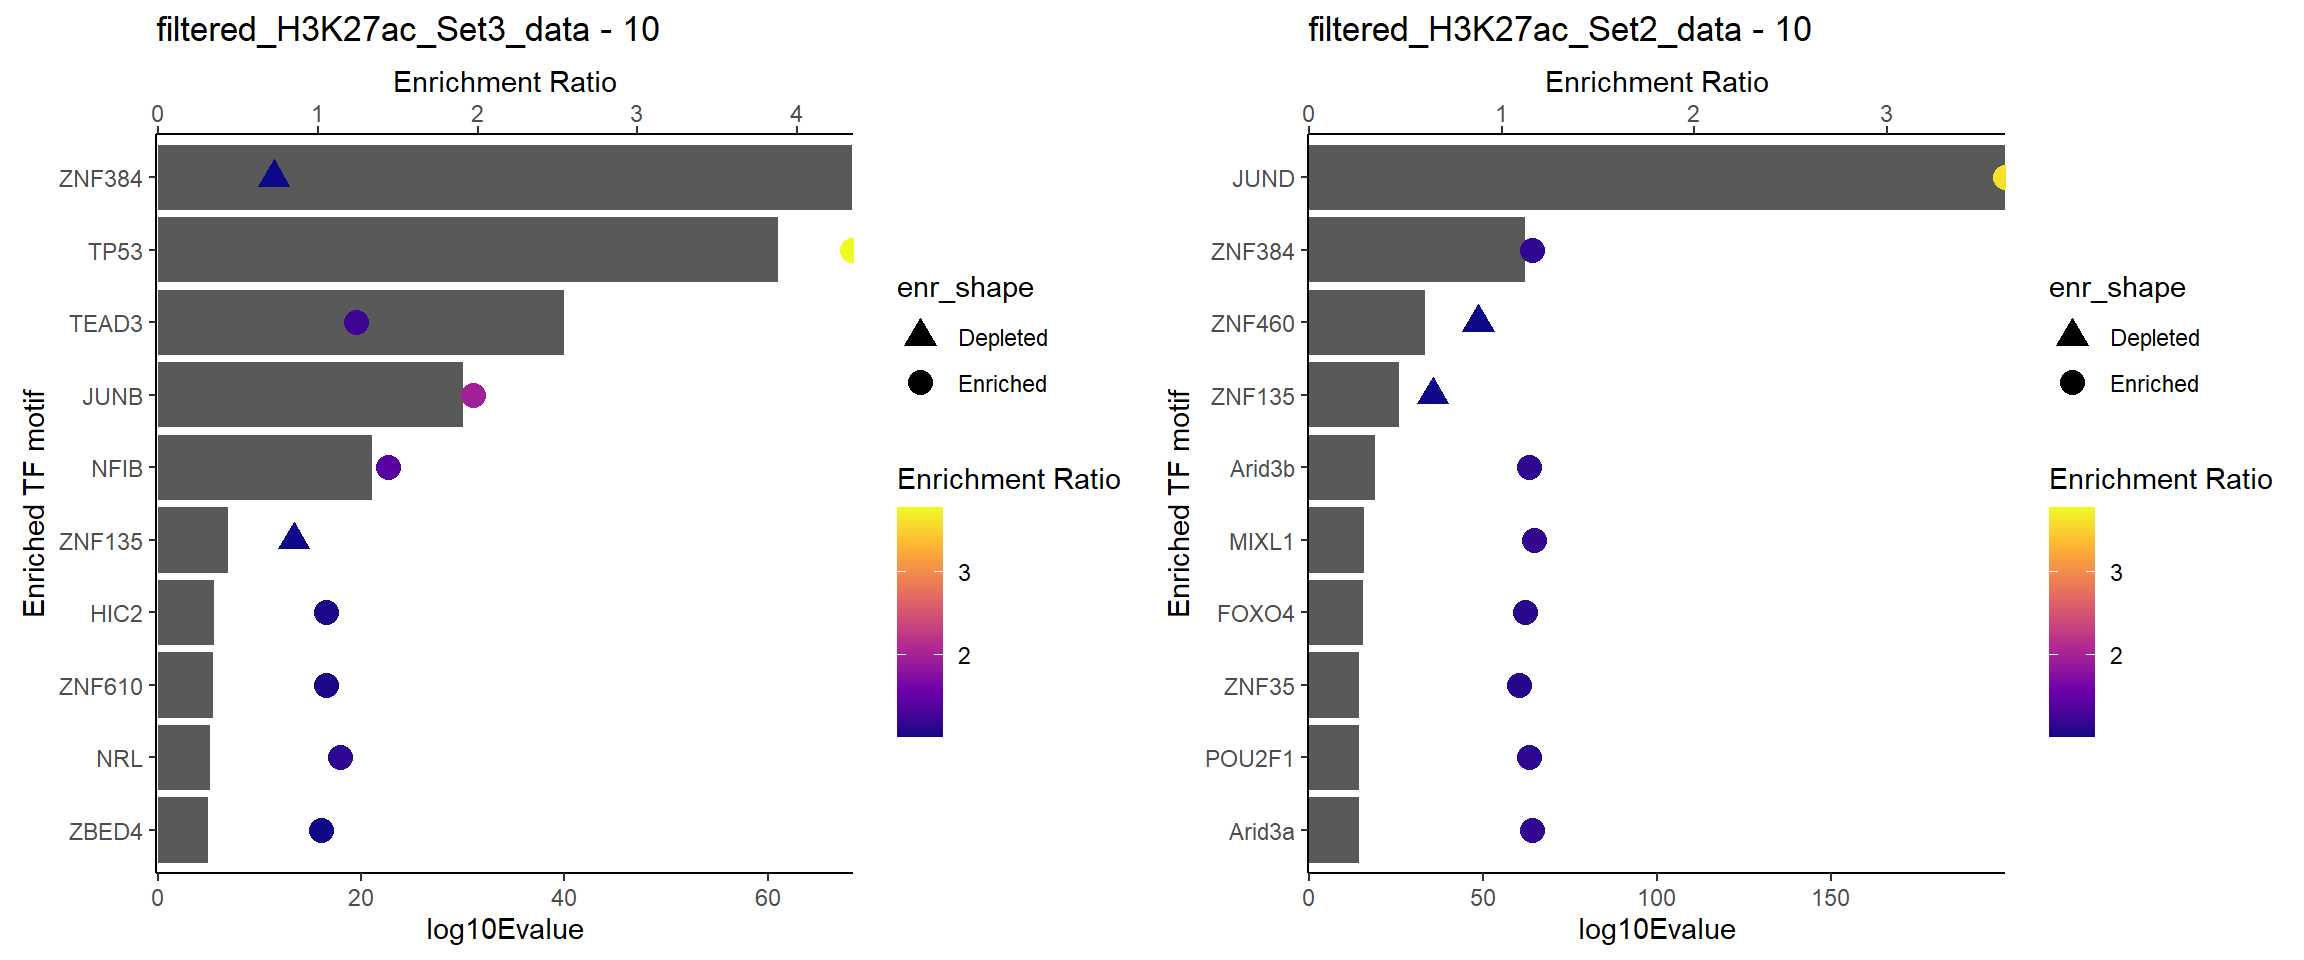
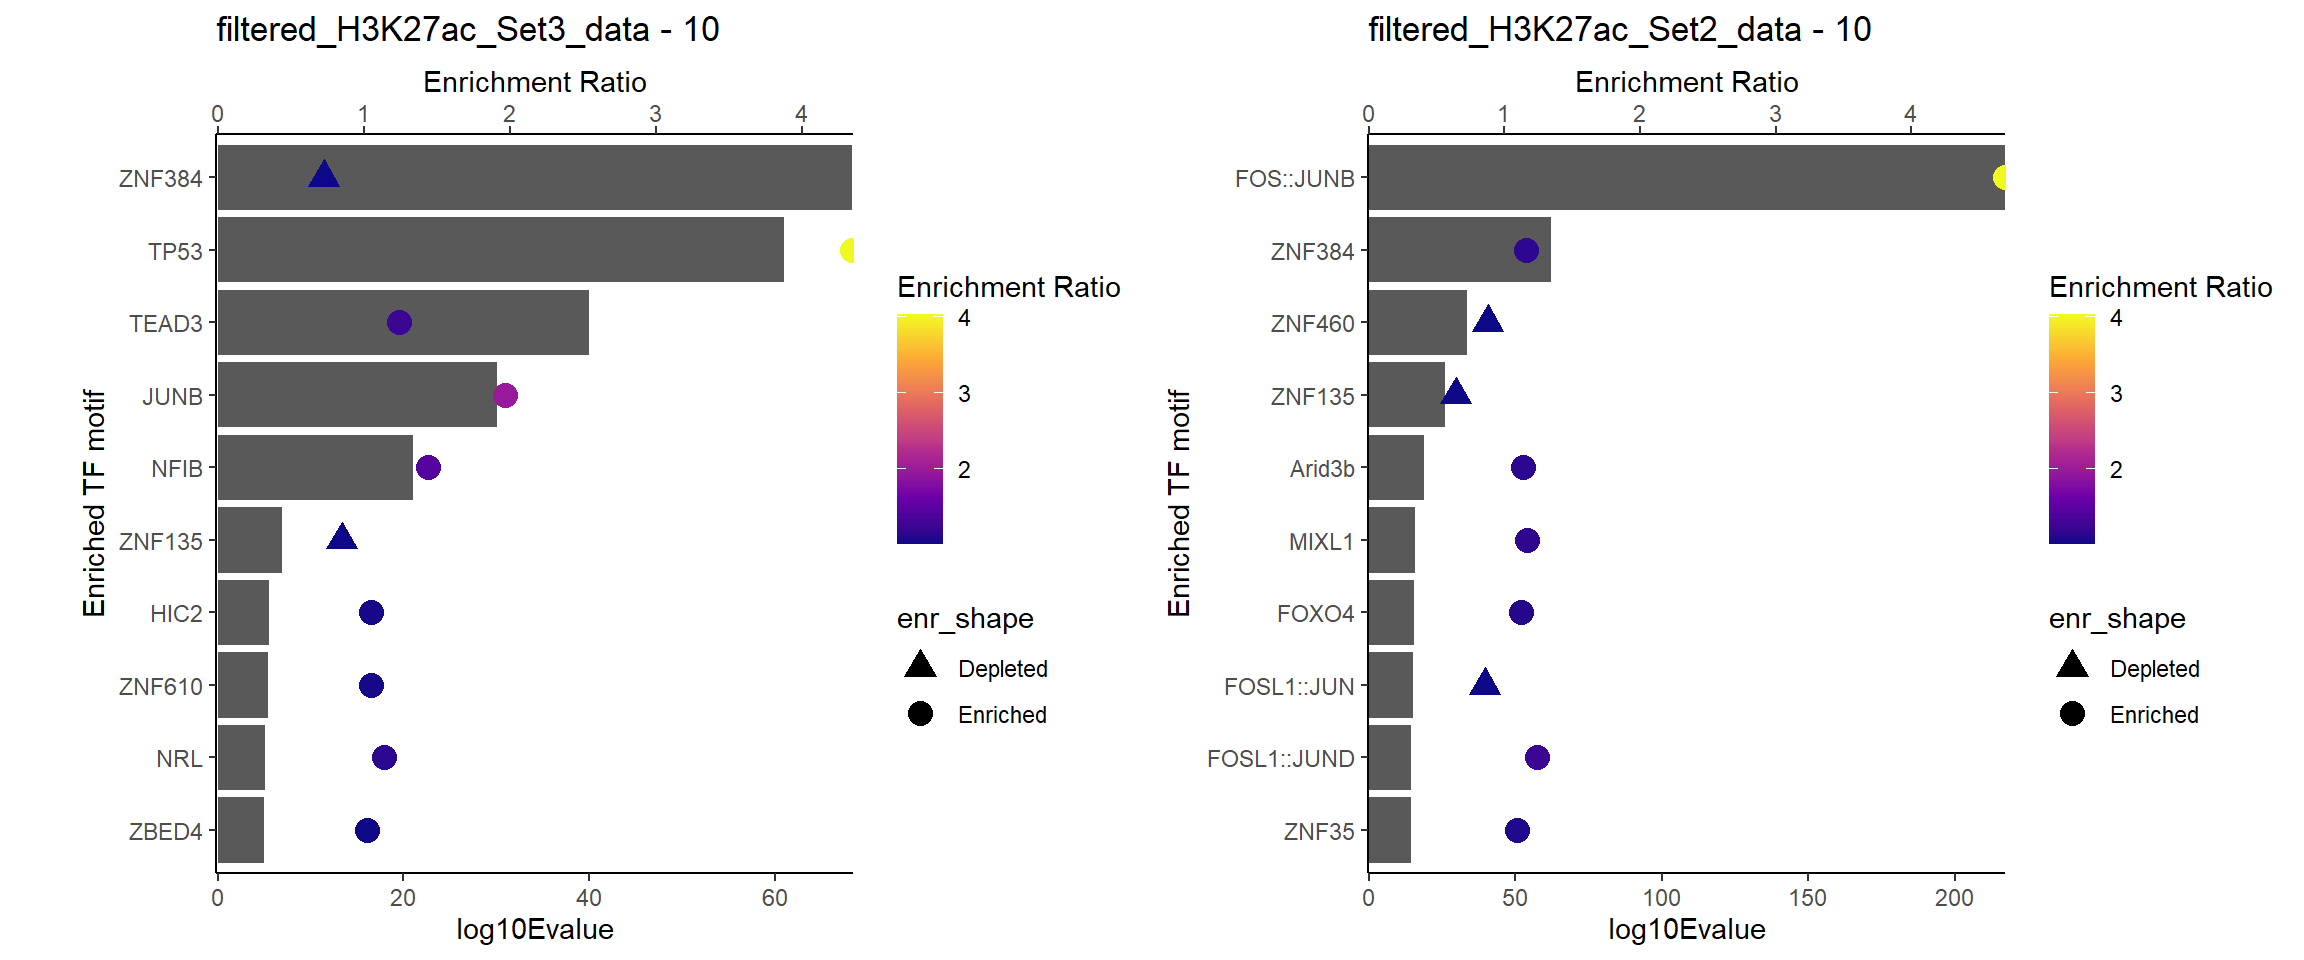
Build site.

diff --git a/docs/H3K27ac_TF_motifs.html b/docs/H3K27ac_TF_motifs.html
@@ -11,7 +11,7 @@
 
 <meta name="author" content="Renee Matthews" />
 
-<meta name="date" content="2026-02-18" />
+<meta name="date" content="2026-02-23" />
 
 <title>H3K27ac TF enrichment</title>
 
@@ -374,7 +374,7 @@ div.tocify {
 
 <h1 class="title toc-ignore">H3K27ac TF enrichment</h1>
 <h4 class="author">Renee Matthews</h4>
-<h4 class="date">2026-02-18</h4>
+<h4 class="date">2026-02-23</h4>
 
 </div>
 
@@ -403,7 +403,7 @@ class="glyphicon glyphicon-ok text-success" aria-hidden="true"></span>
 <div class="tab-content">
 <div id="summary" class="tab-pane fade in active">
 <p>
-<strong>Last updated:</strong> 2026-02-18
+<strong>Last updated:</strong> 2026-02-23
 </p>
 <p>
 <strong>Checks:</strong> <span
@@ -534,15 +534,15 @@ project makes it easier to run your code on other machines.</p>
 <div class="panel panel-default">
 <div class="panel-heading">
 <p class="panel-title">
-<a data-toggle="collapse" data-parent="#workflowr-checks" href="#strongRepositoryversionstrongahrefhttpsgithubcomreneeisnowhereDXRcontinuetreedbe389b89c36f67cf5f533b9f303fd43445c7a48targetblankdbe389ba">
+<a data-toggle="collapse" data-parent="#workflowr-checks" href="#strongRepositoryversionstrongahrefhttpsgithubcomreneeisnowhereDXRcontinuetree7ca10d191a71237156056fbce804d6ee60436728targetblank7ca10d1a">
 <span class="glyphicon glyphicon-ok text-success"
 aria-hidden="true"></span> <strong>Repository version:</strong>
-<a href="https://github.com/reneeisnowhere/DXR_continue/tree/dbe389b89c36f67cf5f533b9f303fd43445c7a48" target="_blank">dbe389b</a>
+<a href="https://github.com/reneeisnowhere/DXR_continue/tree/7ca10d191a71237156056fbce804d6ee60436728" target="_blank">7ca10d1</a>
 </a>
 </p>
 </div>
 <div
[2 lines of base64/hex data omitted]
 class="panel-collapse collapse">
 <div class="panel-body">
 <p>
@@ -552,7 +552,7 @@ reproducibility.
 </p>
 <p>
 The results in this page were generated with repository version
-<a href="https://github.com/reneeisnowhere/DXR_continue/tree/dbe389b89c36f67cf5f533b9f303fd43445c7a48" target="_blank">dbe389b</a>.
+<a href="https://github.com/reneeisnowhere/DXR_continue/tree/7ca10d191a71237156056fbce804d6ee60436728" target="_blank">7ca10d1</a>.
 See the <em>Past versions</em> tab to see a history of the changes made
 to the R Markdown and HTML files.
 </p>
@@ -596,6 +596,7 @@ Untracked files:
     Untracked:  other_analysis/
 
 Unstaged changes:
+    Modified:   analysis/H3K27_TE_overlap.Rmd
     Modified:   analysis/H3K27ac_cisRE.Rmd
     Modified:   analysis/H3K27ac_summit_processing.Rmd
     Modified:   analysis/H3K9me3_TE_investigation.Rmd
@@ -646,6 +647,40 @@ Message
 </tr>
 </thead>
 <tbody>
+<tr>
+<td>
+Rmd
+</td>
+<td>
+<a href="https://github.com/reneeisnowhere/DXR_continue/blob/7ca10d191a71237156056fbce804d6ee60436728/analysis/H3K27ac_TF_motifs.Rmd" target="_blank">7ca10d1</a>
+</td>
+<td>
+reneeisnowhere
+</td>
+<td>
+2026-02-23
+</td>
+<td>
+filter updated
+</td>
+</tr>
+<tr>
+<td>
+html
+</td>
+<td>
+<a href="https://rawcdn.githack.com/reneeisnowhere/DXR_continue/e7a3fffc099e445bce5eb324a1a76fd5fe981245/docs/H3K27ac_TF_motifs.html" target="_blank">e7a3fff</a>
+</td>
+<td>
+reneeisnowhere
+</td>
+<td>
+2026-02-18
+</td>
+<td>
+Build site.
+</td>
+</tr>
 <tr>
 <td>
 Rmd
@@ -963,6 +998,8 @@ library(stringr)
 library(DT)</code></pre>
 <div id="summit-calls-method-1" class="section level3">
 <h3>Summit calls method 1</h3>
+<p>This is actually summit +/- 200 bp (and 300bp for initial
+investigation)</p>
 <pre class="r"><code>H3K27ac_Set2_sea_disc_out &lt;-read_delim(&quot;C:/Users/renee/Other_projects_data/DXR_data/H3K27ac/H3K27ac_set2_400/sea_disc_out/sea.tsv&quot;, delim = &quot;\t&quot;, escape_double = FALSE,     trim_ws = TRUE) %&gt;% mutate(source=&quot;disc&quot;) %&gt;% slice_head(n = length(.$ID)-3)
 
 H3K27ac_Set2_sea_known &lt;-read_delim(&quot;C:/Users/renee/Other_projects_data/DXR_data/H3K27ac/H3K27ac_set2_400/sea_out/sea.tsv&quot;, delim = &quot;\t&quot;, escape_double = FALSE,     trim_ws = TRUE) %&gt;% mutate(source=&quot;known&quot;) %&gt;% slice_head(n = length(.$ID)-3)
@@ -1912,27 +1949,75 @@ reneeisnowhere
 RNA_expressed &lt;- RNA_full_toptable %&gt;% 
   dplyr::select(Entrez_ID, SYMBOL)
 
-filtered_H3K27ac_Set3_data&lt;- H3K27ac_Set3_data%&gt;% 
-  dplyr::filter(str_to_upper(motif_name) %in% str_to_upper(RNA_expressed$SYMBOL)) 
+### had to add in a special filter to account for the :: in the names of the motifs
+symbols &lt;- str_to_upper(RNA_expressed$SYMBOL)
+
+filtered_H3K27ac_Set3_data &lt;- H3K27ac_Set3_data %&gt;%
+  ##create the motif-tokens column so I can keep names where there is a partial match in the RNA Symbols
+  mutate(motif_tokens = str_split(str_to_upper(motif_name), &quot;::&quot;)) %&gt;%
+  ##Because this is a list, now I need to filter using sapply, but then remove the motif token column
+  filter(sapply(motif_tokens, function(x) any(x %in% symbols))) %&gt;%
+  select(-motif_tokens)
 
 
-filtered_H3K27ac_Set2_data&lt;- H3K27ac_Set2_data%&gt;% 
-  dplyr::filter(str_to_upper(motif_name) %in% str_to_upper(RNA_expressed$SYMBOL))
+filtered_H3K27ac_Set2_data &lt;- H3K27ac_Set2_data %&gt;%
+  mutate(motif_tokens = str_split(str_to_upper(motif_name), &quot;::&quot;)) %&gt;%
+  filter(sapply(motif_tokens, function(x) any(x %in% symbols))) %&gt;%
+  select(-motif_tokens)
 
+
+## binding both together to get them to set a global limit on the secondary axis using quantiles so color range is identical
 global_combo &lt;- bind_rows(filtered_H3K27ac_Set2_data, filtered_H3K27ac_Set3_data)
 
 global_limits &lt;-  quantile(global_combo$ENR_RATIO, probs = c(0.05, 0.95), na.rm = TRUE)
-
+### plot seperately
   filt_A &lt;- plot_topnum_ratio_full(filtered_H3K27ac_Set3_data,signif.num = 0.05, top_num = 10,color_limits = global_limits)
   
   filt_B &lt;- plot_topnum_ratio_full(filtered_H3K27ac_Set2_data,signif.num = 0.05, top_num = 10,color_limits = global_limits)
-  
+ ## Good ole cowplot to align plots vertically 
   aligned_filt_plots &lt;- cowplot::align_plots(filt_A, filt_B, align = &quot;v&quot;, axis = &quot;l&quot;)
 
 cowplot::plot_grid(aligned_filt_plots[[1]],
           aligned_filt_plots[[2]],
           ncol = 2)</code></pre>
 <p><img src="figure/H3K27ac_TF_motifs.Rmd/RNA%20filtering-1.png" width="1152" style="display: block; margin: auto;" /></p>
+<p>
+<button type="button" class="btn btn-default btn-xs btn-workflowr btn-workflowr-fig" data-toggle="collapse" data-target="#fig-no-spaces-RNA-filtering-1">
+Past versions of "RNA filtering-1.png"
+</button>
+</p>
+<div id="fig-no-spaces-RNA-filtering-1" class="collapse">
+<div class="table-responsive">
+<table class="table table-condensed table-hover">
+<thead>
+<tr>
+<th>
+Version
+</th>
+<th>
+Author
+</th>
+<th>
+Date
+</th>
+</tr>
+</thead>
+<tbody>
+<tr>
+<td>
+<a href="https://github.com/reneeisnowhere/DXR_continue/blob/e7a3fffc099e445bce5eb324a1a76fd5fe981245/docs/figure/H3K27ac_TF_motifs.Rmd/RNA filtering-1.png" target="_blank">e7a3fff</a>
+</td>
+<td>
+reneeisnowhere
+</td>
+<td>
+2026-02-18
+</td>
+</tr>
+</tbody>
+</table>
+</div>
+</div>
 </div>
 <div id="case-and-summit-calls-method-1-subset-a-and-b"
 class="section level3">
